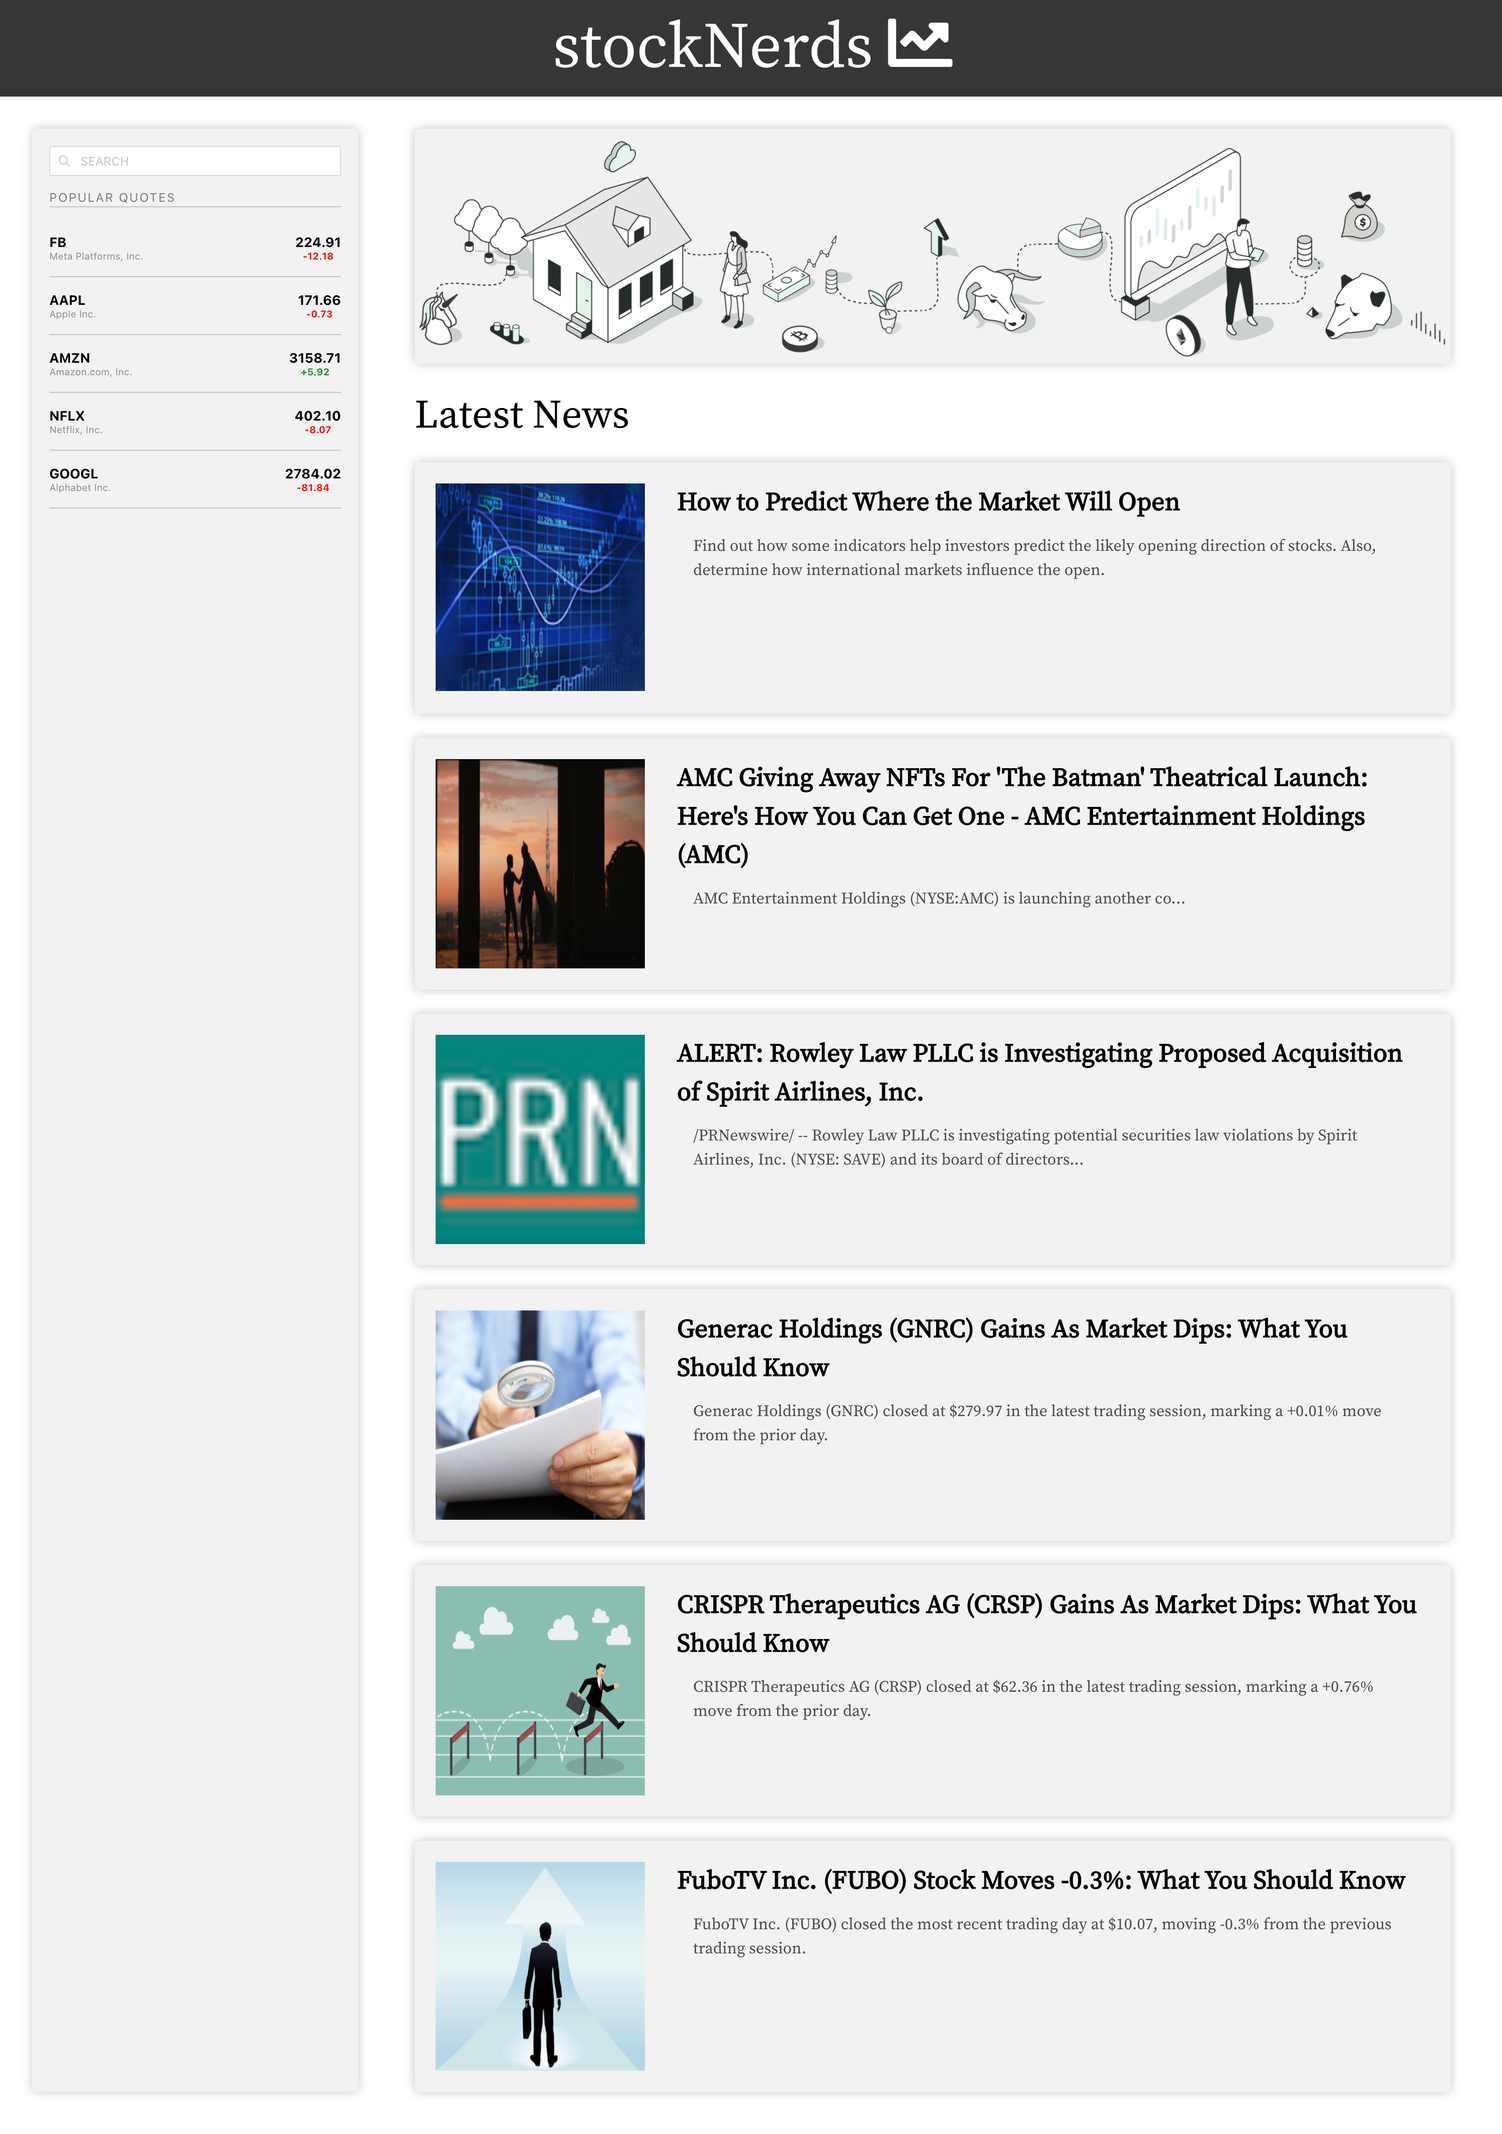
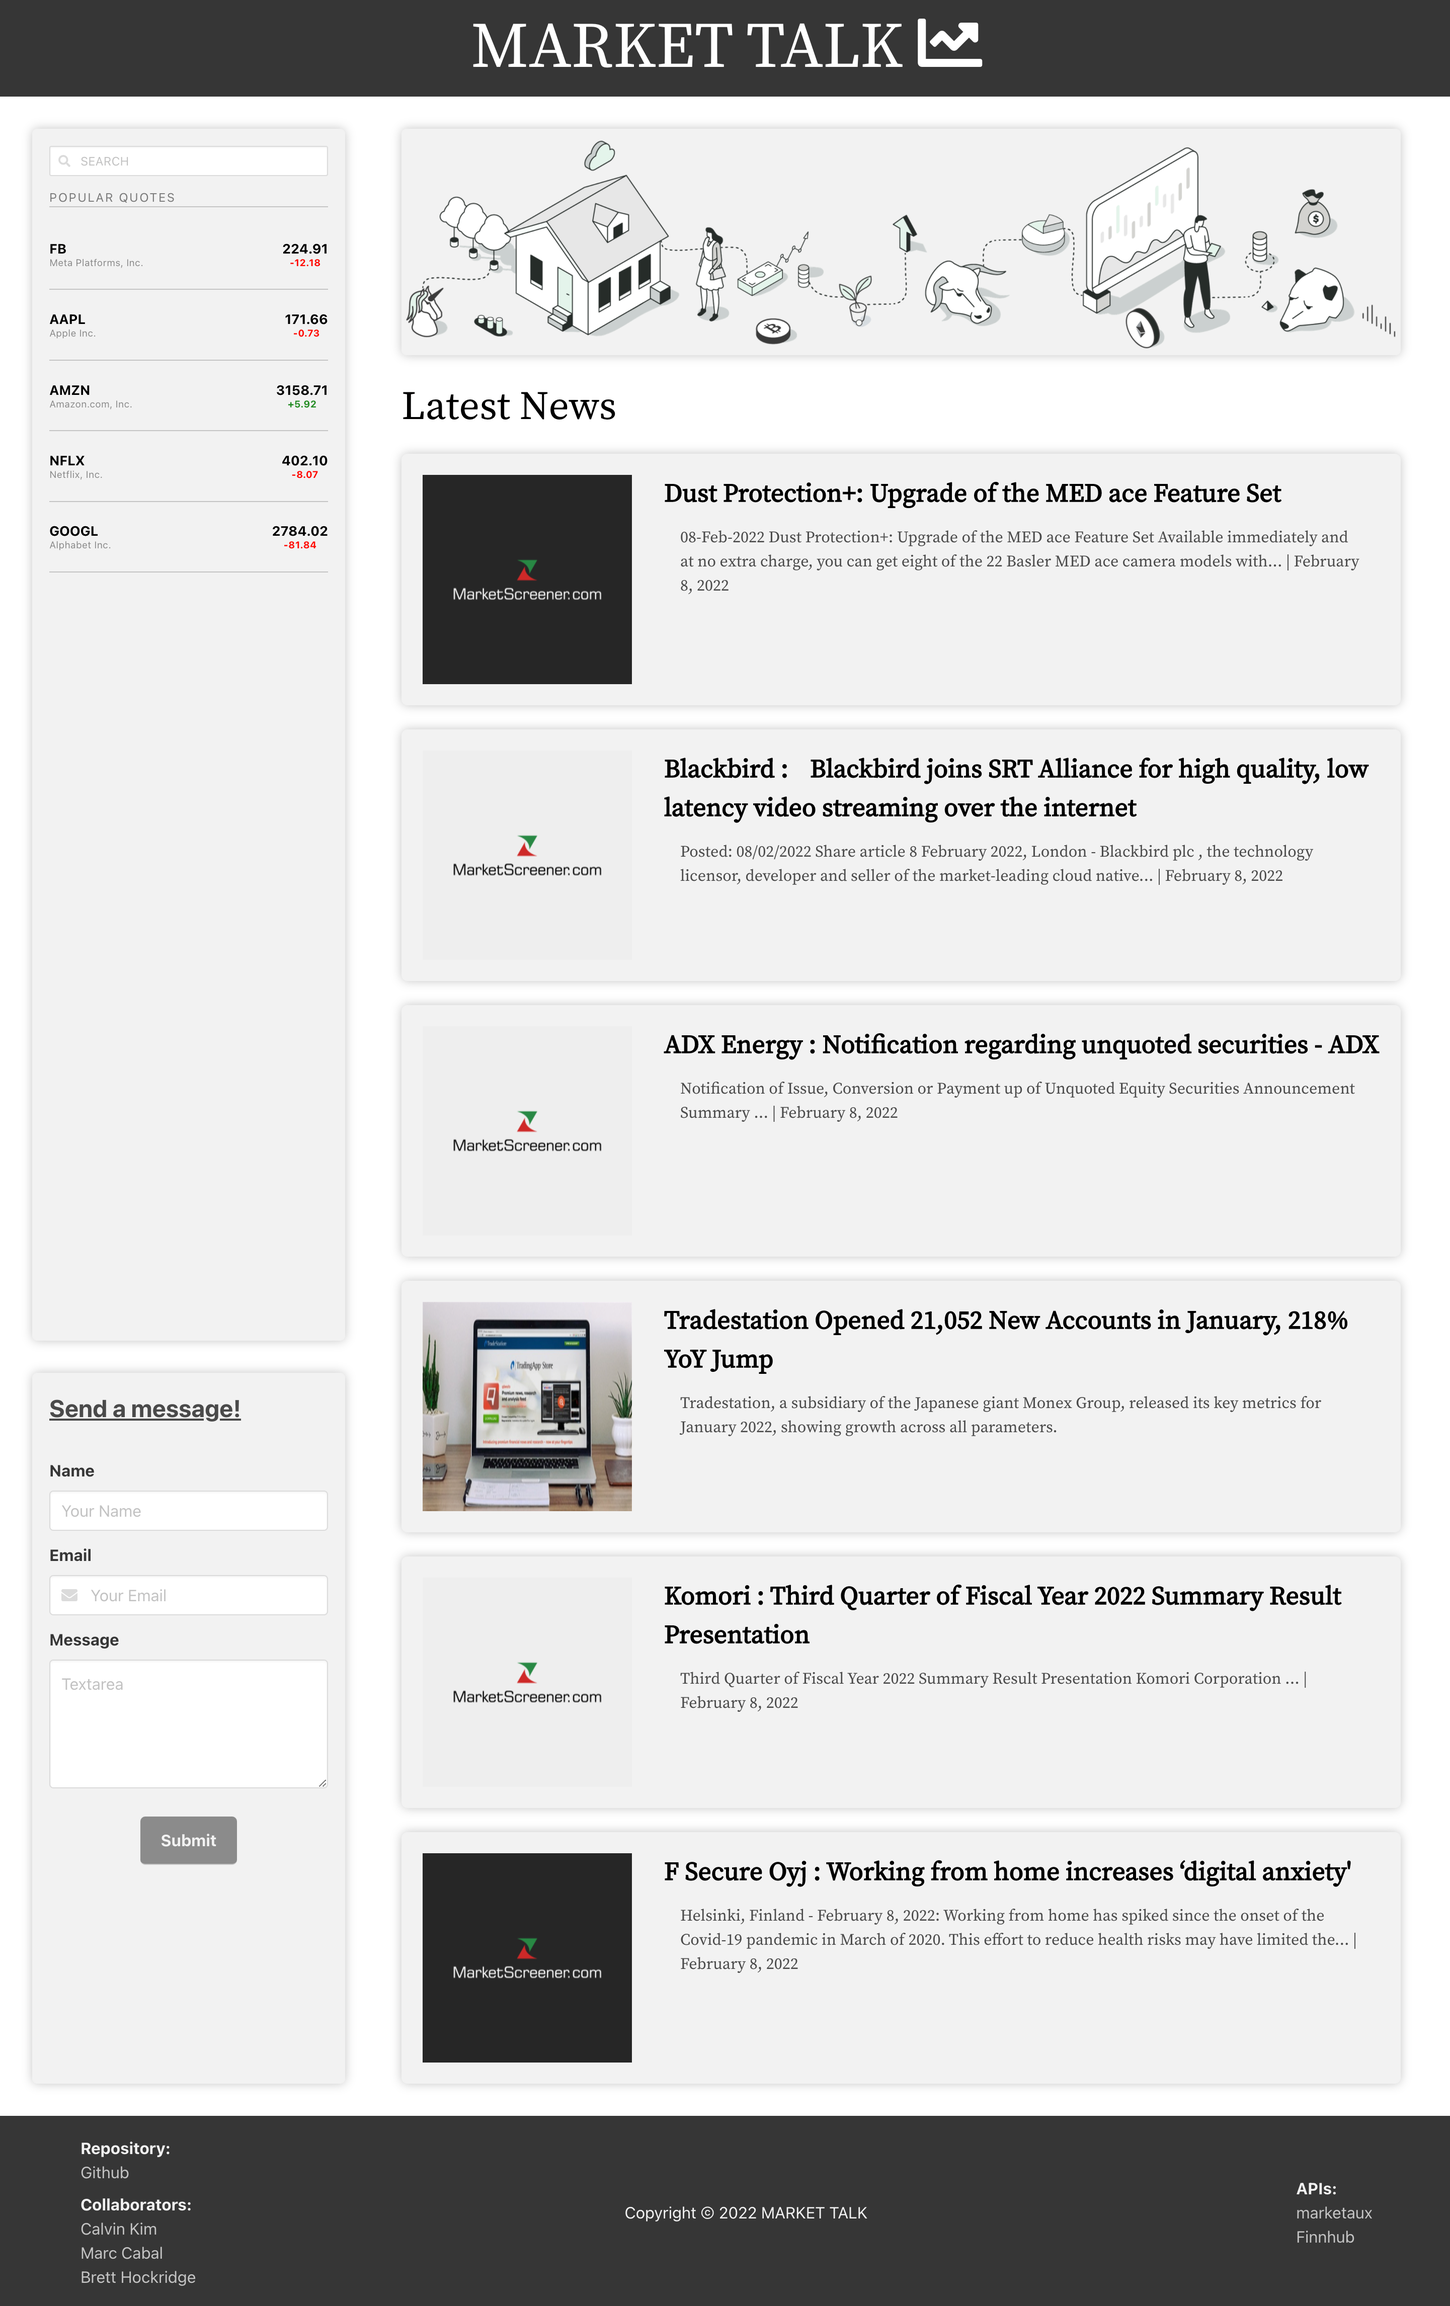
added contact form, footer, updated css, and added new screenshot to readme

diff --git a/index.html b/index.html
@@ -6,7 +6,7 @@
     <meta http-equiv="X-UA-Compatible" content="IE=edge">
     <meta name="viewport" content="width=device-width, initial-scale=1.0">
 
-    <title>stockNerds</title>
+    <title>MARKET TALK</title>
     <meta name="description"
         content="A financial website using stock screeners and also displays financial news related to the top companies in the world.">
     <meta name="author" content="stockNerds">
@@ -24,7 +24,7 @@
 <body>
     <header class="has-text-centered hero is-small has-background-dark">
         <div>
-            <a id="main-header" href="index.html">stockNerds <i class="fas fa-chart-line" id="header-icon"></i></a>
+            <a id="main-header" href="index.html">MARKET TALK <i class="fas fa-chart-line" id="header-icon"></i></a>
         </div>
     </header>
 
@@ -41,47 +41,6 @@
                         </span>
                     </div>
                     <!-- Watchlist -->
-                    <!-- <div class="stock-card">
-                        <div class="stock-symbol-header">
-                            <div>
-                                <h3 class="stock-ticker"></h3> 
-                                <p class="stock-name"></p>
-                            </div>
-                            <div>
-                                <h4 class="card-current-price"></h4>
-                                <p class="card-price-change"></p>
-                            </div>
-                        </div>
-                        <div class="card-high-low">
-                            <h6 class="year-low-high-header"></h6>
-                            <div class="low-high-prices">
-                                <p class="low-price"></p>
-                                <p class="high-price"></p>
-                            </div>
-                        </div>
-                        <div class="basic-financials">
-                            <div class="market-cap">
-                                <h6 class="market-cap-header"></h6>
-                                <p class="market-cap-number"></p>
-                            </div>
-                            <div class="pe-ratio">
-                                <h6 class="pe-header"></h6>
-                                <p class="pe-number"></p>
-                            </div>
-                            <div class="eps">
-                                <h6 class="eps-header"></h6>
-                                <p class="eps-number"></p>
-                            </div>
-                            <div class="yield">
-                                <h6 class="yield-header"></h6>
-                                <p class="yield-number"></p>
-                            </div>
-                            <div class="beta">
-                                <h6 class="beta-header"></h6>
-                                <p class="beta-number"></p>
-                            </div>
-                        </div>
-                    </div> -->
                     <p class="menu-label">
                         Popular Quotes
                     </p> 
@@ -177,6 +136,40 @@
                         </div>
                     </div>
                 </aside>
+                <aside id="contact-aside">
+                    <h6>Send a message!</h6>
+                    <form action="mailto:calvinkim1230@gmail.com" method="post" name="emailform">
+                        <div class="field">
+                            <label class="label">Name</label>
+                            <div class="control">
+                            <input class="input" type="text" placeholder="Your Name">
+                            </div>
+                        </div>
+
+                        <div class="field">
+                            <label class="label">Email</label>
+                            <div class="control has-icons-left has-icons-right">
+                            <input class="input" type="email" placeholder="Your Email" value="">
+                            <span class="icon is-small is-left">
+                                <i class="fas fa-envelope"></i>
+                            </span>
+                            </div>
+                        </div>
+                        
+                        <div class="field">
+                            <label class="label">Message</label>
+                            <div class="control">
+                            <textarea class="textarea" placeholder="Textarea"></textarea>
+                            </div>
+                        </div>
+                        
+                        <div class="">
+                            <div class="btn-container">
+                            <button class="is-link submit-btn">Submit</button>
+                            </div>
+                        </div>
+                    </form>
+                </aside>
             </div>
             <!-- Hero and Latest News Container -->
             <div class="column is-9">
@@ -185,95 +178,32 @@
                     <img src="https://d9hhrg4mnvzow.cloudfront.net/subscriptions.seekingalpha.com/lp_premium_acq_g/6224bf0b-image-3-01_12300hu2300gw00000g000.png" id="news-png" alt="pic">
                     <!-- Latest News Content -->
                     <h1 id="latest-news-header">Latest News</h1>
-                    <!-- <div class="box news-article-box">
-                        <article class="media">
-                            <div class="media-left">
-                                <figure class="image is-100x100">
-                                    <img id="news-img-1" src="https://bulma.io/images/placeholders/128x128.png" alt="Image">
-                                </figure>
-                            </div>
-                            <div class="media-content">
-                                <div class="content">
-                                    <a href="" id="news-article-header-1"></a>
-                                </div>
-                            </div>
-                        </article>
-                    </div>
-                    <div class="box news-article-box">
-                        <article class="media">
-                            <div class="media-left">
-                                <figure class="image is-100x100">
-                                    <img id="news-img-2" src="https://bulma.io/images/placeholders/128x128.png" alt="Image">
-                                </figure>
-                            </div>
-                            <div class="media-content">
-                                <div class="content">
-                                    <a href="" id="news-article-header-2"></a>
-                                </div>
-                            </div>
-                        </article>
-                    </div>
-                    <div class="box news-article-box">
-                        <article class="media">
-                            <div class="media-left">
-                                <figure class="image is-100x100">
-                                    <img id="news-img-3" src="https://bulma.io/images/placeholders/128x128.png" alt="Image">
-                                </figure>
-                            </div>
-                            <div class="media-content">
-                                <div class="content">
-                                    <a href="" id="news-article-header-3"></a>
-                                </div>
-                            </div>
-                        </article>
-                    </div> -->
-                    
-                    <!-- <div class="box news-article-box">
-                        <article class="media">
-                            <div class="media-left">
-                                <figure class="image is-100x100">
-                                    <img id="news-img-4" src="https://bulma.io/images/placeholders/128x128.png" alt="Image">
-                                </figure>
-                            </div>
-                            <div class="media-content">
-                                <div class="content">
-                                    <a href="" id="news-article-header-4">explanation</a>
-                                </div>
-                            </div>
-                        </article>
-                    </div>
-                    <div class="box news-article-box">
-                        <article class="media">
-                            <div class="media-left">
-                                <figure class="image is-100x100">
-                                    <img id="news-img-5" src="https://bulma.io/images/placeholders/128x128.png" alt="Image">
-                                </figure>
-                            </div>
-                            <div class="media-content">
-                                <div class="content">
-                                    <a href="" id="news-article-header-5">explanation</a>
-                                </div>
-                            </div>
-                        </article>
-                    </div>
-                    <div class="box news-article-box">
-                        <article class="media">
-                            <div class="media-left">
-                                <figure class="image is-100x100">
-                                    <img id="news-img-6" src="https://bulma.io/images/placeholders/128x128.png" alt="Image">
-                                </figure>
-                            </div>
-                            <div class="media-content">
-                                <div class="content">
-                                    <a href="" id="news-article-header-6">explanation</a>
-                                </div>
-                            </div>
-                        </article>
-                    </div> -->
                 </div>
             </div>
         </div>
     </main>
+    <footer class="has-background-dark">
+        <div id="repo-collab-footer">
+            <div>
+                <p id="footer-github">Repository:</p>
+                <a href="https://github.com/calvin-kim13/stockNerds">Github</a>
+            </div>
+            <div id="collab-footer">
+                 <p id="footer-collaborators">Collaborators:</p>
+                  <a href="mailto:calvinkim1230@gmail.com">Calvin Kim</a>
+                  <a href="mailto:marccabal77@gmail.com">Marc Cabal</a>
+                  <a href="mailto:bretthockridge98@gmail.com">Brett Hockridge</a>
+            </div>
+        </div>
+        <div id="copyright-footer">
+            <p>Copyright &copy; 2022 MARKET TALK</p>
+        </div>
+        <div id="api-footer-container">
+            <p id="api-header">APIs:</p>
+            <a href="https://www.marketaux.com/">marketaux</a>
+            <a href="https://finnhub.io/">Finnhub</a>
+        </div>
+    </footer>
 
 
     <script src="./assets/js/script.js"></script>

diff --git a/assets/css/style.css b/assets/css/style.css
@@ -17,7 +17,6 @@
     margin: 0;
     padding: 0;
     box-sizing: border-box;
-    /* background-color: var(--light-grey); */
 }
 
 /* HEADER */
@@ -27,6 +26,7 @@ header {
     align-items: center;
     font-family: var(--news-content-font);
     font-size: 4rem;
+    background-color: var(--dark-grey);
 }
 
 #main-header {
@@ -41,8 +41,43 @@ aside {
         box-shadow: 0 0 10px var(--md-grey);
     padding: 1rem;
     border: 1px solid var(--light-grey);
-    height: 96.8%;
+    height: 60%;
     border-radius: 5px;
+}
+
+#contact-aside {
+    height: 35.2%;
+}
+
+h6 {
+    font-size: 1.5rem;
+    font-weight: bold;
+    margin-bottom: 2rem;
+    text-decoration: underline;
+}
+
+.btn-container {
+    display: flex;
+    justify-content: center;
+}
+
+.submit-btn {
+    background-color: var(--dark-grey);
+    color: var(--light-grey);
+    height: 3rem;
+    width: 6rem;
+    border-radius: 5px;
+    justify-content: center;
+    font-size: 1rem;
+    margin-top: 1rem;
+    font-weight: bold;
+}
+
+.submit-btn:hover {
+    background-color: var(--md-grey);
+    transition: transform 150ms;
+    transform: scale(1.03);
+    color: var(--dark-grey);
 }
 
 .menu-label {
@@ -52,7 +87,7 @@ aside {
 
 button {
     width: 100%;
-    height: 3%;
+    height: 6%;
     display: flex;
     justify-content: space-between;
     align-items: center;
@@ -60,13 +95,6 @@ button {
     border-style: none;
     border-bottom: 1px solid var(--md-grey);
 }
-
-/* button:hover {
-    background-color: var(--md-grey);
-    cursor: pointer;
-    transition: transform 150ms;
-    transform: scale(1.03);
-} */
 
 .ticker {
     font-weight: bold;
@@ -313,4 +341,57 @@ figure {
 
 .news-header:hover {
     text-decoration: underline;
+}
+
+/* FOOTER */
+footer {
+    height: 12rem;
+    background-color: var(--dark-grey);
+    display: flex;
+    flex-direction: row;
+    align-items: center;
+    justify-content: space-between;
+    padding: 5rem;
+}
+
+#footer-github {
+    color: var(--light-grey);
+    font-weight: bold;
+}
+
+#collab-footer {
+    display: flex;
+    flex-direction: column;
+}
+
+#footer-collaborators {
+    color: var(--light-grey);
+    margin-top: .5rem;
+    font-weight: bold;
+}
+
+#api-footer-container {
+    display: flex;
+    flex-direction: column;
+}
+
+#api-header {
+    color: var(--light-grey);
+    font-weight: bold;
+}
+
+footer a {
+    color: var(--md-grey);
+}
+
+footer a:hover {
+    color: var(--light-grey);
+    transition: .4s;
+}
+
+#copyright-footer {
+    color: var(--light-grey);
+    display: flex;
+    justify-content: center;
+    align-items: center;
 }

diff --git a/assets/js/script.js b/assets/js/script.js
@@ -49,7 +49,7 @@ let betaHeaderEl = document.querySelector('.beta-header');
 let beatNumberEl = document.querySelector('.beta-number');
 
 // NEWS VARIABLES
-let marketauxKey = "scotzkxoU6tor1UNg3otiealSCuIJVvVfFEva6Yj";
+let marketauxKey = "cT7GXdDSIcLAs41UKBeGY5odMkxy6XrcQupPMK4Q";
 let latestNewsEl = document.querySelector('#latest-news-header');
 let parentNewsContainerEl = document.querySelector('#png-latest-news-container');
 
@@ -89,7 +89,7 @@ async function getTrendingNews(dateOf) {
 // FUNCTION THAT DYNAMICALLY CREATES NEWS CARDS 
 var createNewsCards = function(newsArticles) {
     let cardFormatEl = document.createElement('div');
-        cardFormatEl.classList = 'box news-article-box';
+        cardFormatEl.classList = 'box news-article-box news-container';
 
         let newsContainerEl = document.createElement('article');
         newsContainerEl.classList.add('media')
